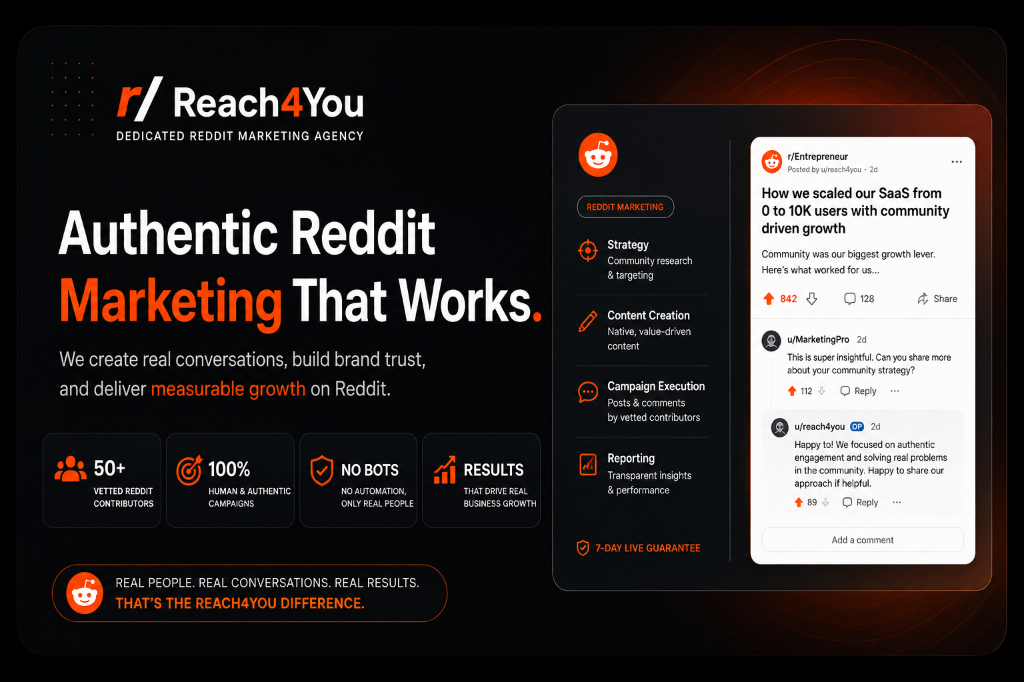
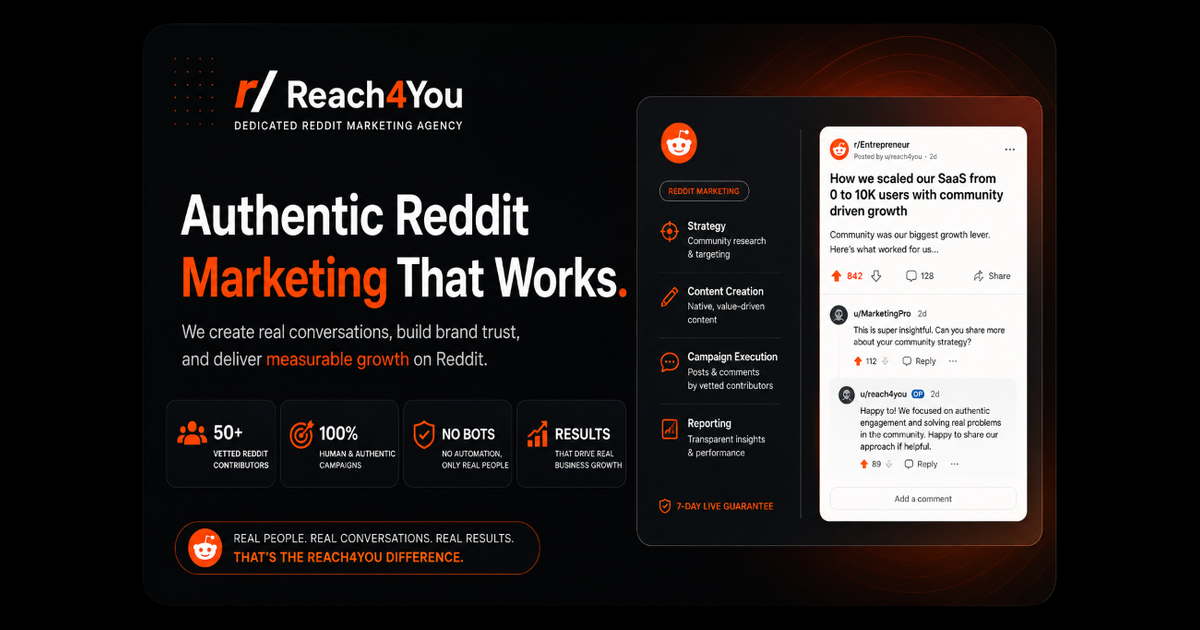
Optimize OG image to exact 1200x630 resolution under 1MB for WhatsApp, X, and LinkedIn preview compatibility

diff --git a/index.html b/index.html
@@ -34,8 +34,8 @@
   <meta id="og-image" property="og:image" content="https://reach4you.vercel.app/og-image.png" />
   <meta id="og-image-secure" property="og:image:secure_url" content="https://reach4you.vercel.app/og-image.png" />
   <meta property="og:image:type" content="image/png" />
-  <meta property="og:image:width" content="1024" />
-  <meta property="og:image:height" content="682" />
+  <meta property="og:image:width" content="1200" />
+  <meta property="og:image:height" content="630" />
   <meta property="og:image:alt" content="Reach4You - Dedicated Reddit Marketing Agency" />
 
   <!-- Twitter Cards -->
